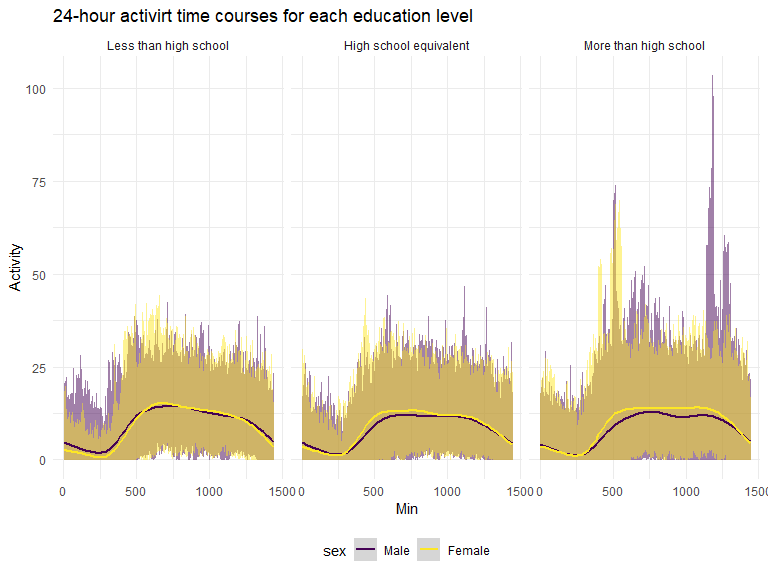
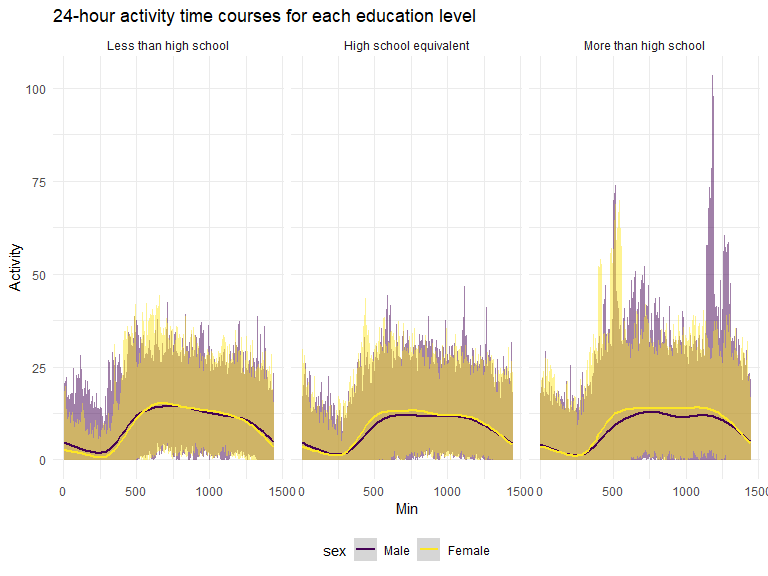
Final version of hw3

Changed region(s): [[0.2188, 0.0, 0.625, 0.0625]]

diff --git a/p8105_hw3_yy3295.md b/p8105_hw3_yy3295.md
@@ -310,6 +310,13 @@ education level is less than high school, there are 35 males and 23
 females whose education level is high school equivalent, there are 56
 males and 59 females whose education level is more than high school.
 
+From the plot for age distributions for men and women in each education
+category, we can learn that for males and females with education
+category of less than high school and more than high school, their age
+distribution has no significant difference. For males and females with
+education category of high school equivalent, the age distribution of
+males are younger than females.
+
 Using your tidied dataset, aggregate across minutes to create a total
 activity variable for each participant. Plot these total activities
 (y-axis) against age (x-axis); your plot should compare men to women and
@@ -334,6 +341,13 @@ ggplot(nhanes_merge_0, aes(x = age,
     ## `geom_smooth()` using formula = 'y ~ x'
 
 <img src="p8105_hw3_yy3295_files/figure-gfm/unnamed-chunk-14-1.png" width="90%" />
+From the plot of total activities vs age, we can learn that there is
+negative association between total activities and ages for the three
+education categories. For high school or equivalent and more than high
+school groups, females tend to have higher total activities than males.
+For less than high school group, females and males tends to have similar
+trends, however, as age increases, the total activities decrease at a
+higher rate when compared to other groups.
 
 Accelerator data allows the inspection activity over the course of the
 day. Make a three-panel plot that shows the 24-hour activity time
@@ -355,9 +369,12 @@ nhanes_merge_1 |>
   facet_wrap(~education) +
   labs(x = "Min",
        y = "Activity",
-       title = "24-hour activirt time courses for each education level",)
+       title = "24-hour activity time courses for each education level",)
 ```
 
     ## `geom_smooth()` using method = 'gam' and formula = 'y ~ s(x, bs = "cs")'
 
 <img src="p8105_hw3_yy3295_files/figure-gfm/unnamed-chunk-15-1.png" width="90%" />
+From the plot of 24-hour activity time courses for each category level,
+we can learn that there is no significant difference of 24-hour activity
+time courses between all three education categories.
